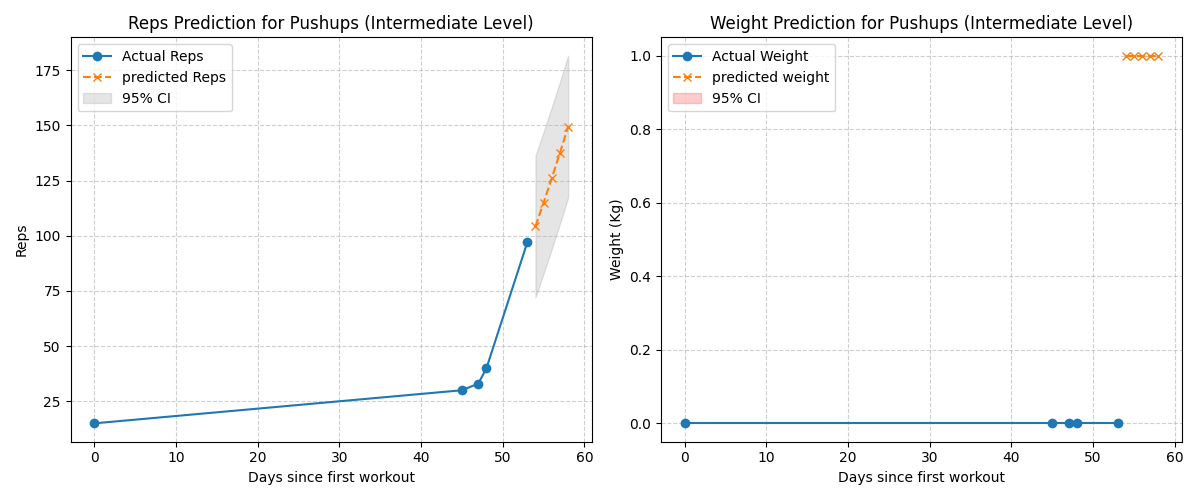
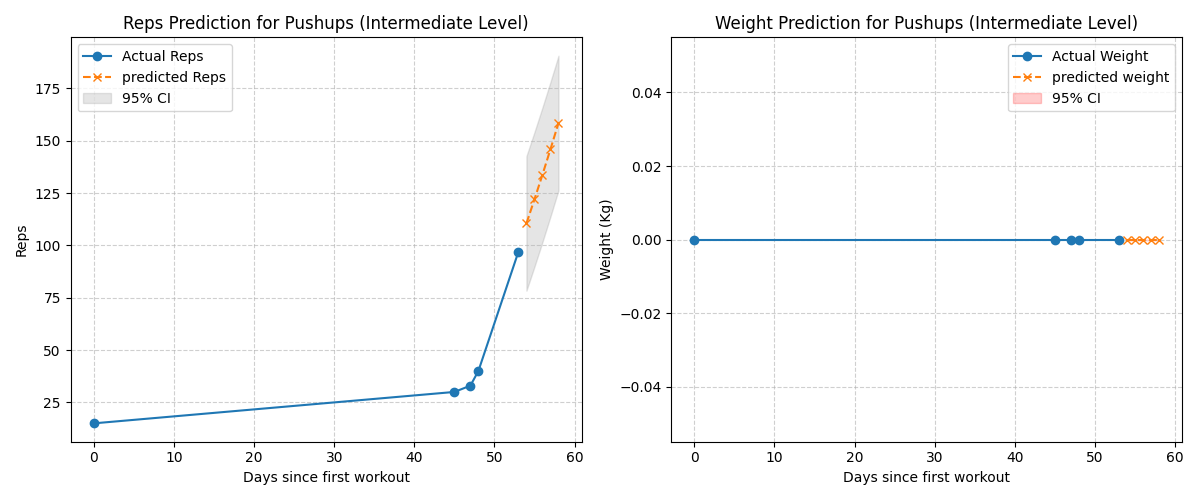
This will work

diff --git a/predictor.py b/predictor.py
@@ -74,7 +74,7 @@ def predict(coeffs, x):
 
 # predict future reps and weight using Polynomial regression and user level implementation
 # Configures user level based on performance
-def predict_targets(dates, reps, weights, user_level="intermediate", degree=2):
+def predict_targets(dates, reps, weights, exercise, user_level="intermediate", degree=2):
     if len(dates) < 2: # If less than 2 workouts are logged
         return None # Not enough data to make an accurate prediction
     # This function allowws dates to be converted into days since first workout
@@ -100,12 +100,13 @@ def predict_targets(dates, reps, weights, user_level="intermediate", degree=2):
 
     # basic if condition if user achieves 90% of the max reps or weights
    # They can ugrade to the next level
+    
     if user_level == "intermediate":
-        max_reps, max_weights = 150, 80
+        max_reps, max_weights = 150, 70
     elif user_level == "expert":
-        max_reps, max_weights = 150, 120
+        max_reps, max_weights = 200, 90
     else: # user level is defaulted to intermediate
-        max_reps, max_weights = 150, 80
+        max_reps, max_weights = 150, 70
 # Trade off ensures that if weights increase for an exercise
 # Reps will be reduced proportionally 
 # This fully reflects real training as when weights increase reps may decrease
@@ -116,13 +117,15 @@ def predict_targets(dates, reps, weights, user_level="intermediate", degree=2):
         future_weights[i] = future_weights[i] * (1 + growth_rate_weights)
         future_reps[i] = future_reps[i] * (1 + growth_rate_reps)
 
-        # If Weights are too high reps will faltten or dip
+        # If Weights are too high reps will faltten or dip and weights will dip
         if future_weights[i] > max_weights * 0.9:
-            future_reps[i] = max(future_reps[i] - 0.3 * (future_weights[i] - last_weights), last_reps)
+            future_weights[i] = max(future_weights[i] - 0.5 * (future_weights[i] - last_weights), 1)
+            future_reps[i] = future_reps[i] * 1.05
 
         # If weights are too low reps will rise faster
-        if future_weights[i] < max_weights * 0.5:
-            future_reps[i] = future_reps[i] * 1.05
+        elif future_weights[i] < max_weights * 0.5:
+            future_weights[i] = future_weights[i] * 1.05
+            future_reps[i] = max(future_reps[i] - 0.3 * (last_reps - future_reps[i]), 1)
         # Limits overly hgih growth for weights
         growth = future_weights[i] - last_weights
         if growth > max_growth_step * (i + 1):
@@ -132,7 +135,7 @@ def predict_targets(dates, reps, weights, user_level="intermediate", degree=2):
 
     if reps[-1] >= 0.9 * max_reps or weights[-1] >= 0.9 * max_weights: # sets 90% threshold
         user_level = "expert"
-        max_reps, max_weights = 150, 120
+        max_reps, max_weights = 150, 70
     # Makes sure that these predictions are capped at a certain level
     
   
